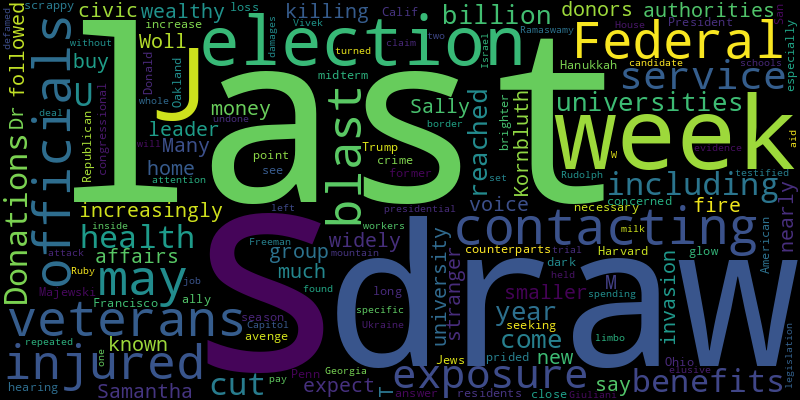
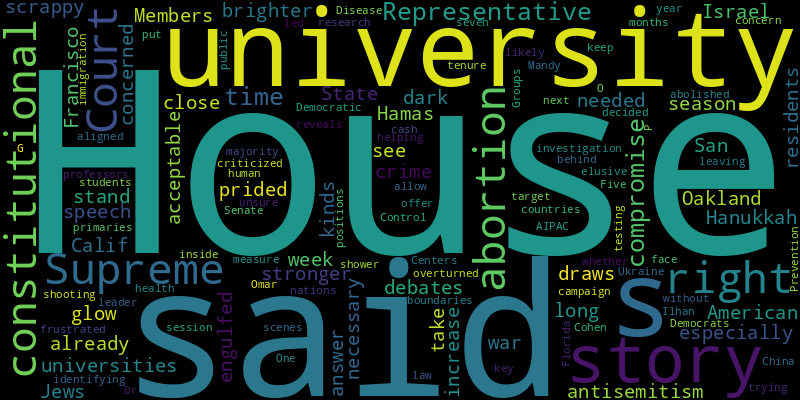
chore(bot): 😱 auto commit

diff --git a/README.md b/README.md
@@ -2,41 +2,41 @@
 Auto RSS New York Times and Generate Word Cloud
 
 ## New York Times Global News
-* President Biden’s meeting with the families lasted more than an hour. He had previously spoken with them by video call days after the Oct. 7 attack.
-* With Western support for Kyiv softening and Congress holding up urgently needed aid, Vladimir Putin’s bet on outlasting Ukraine and its allies is looking stronger.
-* The government avoided extra borrowing for 2024, but must make cuts in programs to address climate change.
-* Israel’s prime minister said he disagreed with President Biden about what should happen in Gaza after the war, and analysts say he might try to use the rift to shore up domestic support.
-* The concept, important for determining the legality of an act of war, is about weighing civilian harm against military objectives, not about achieving a balanced number of casualties.
-* Prime Minister Donald Tusk is sworn in and vows to try to invigorate flagging European support for Ukraine and push for “full mobilization” against Russia’s military assault.
-* Ukraine’s military said that it had shot down all the ballistic missiles targeting the capital, but that falling debris caused significant damage.
-* A Thai farmworker clung to hope during her nearly 50 days of captivity in Gaza by befriending a young Israeli girl and dreaming of reuniting with her boyfriend, who had also been abducted.
-* Even Gazans who can get access to Israeli directions online say they sometimes make no sense, which could be a matter of life or death.
-* President Volodymyr Zelensky of Ukraine traveled to Washington to make a last-ditch appeal for more help to fight Russia. But Republicans said they wouldn’t act without a border deal.
+* National Security Adviser Jake Sullivan, in Tel Aviv, sought to demonstrate that the U.S. and Israel are on the same page in the war against Hamas in Gaza.
+* In a country already bristling with armed soldiers and reservists, a new sense of insecurity is pushing civilians to seek more personal weapons.
+* The E.U.’s willingness to open accession talks will lift morale, but the more immediate issue of financial support from allies for the war is cloudy.
+* Ukrainian men are reporting incidents of wrongful draft notices, unprofessional medical commissions and coercive mobilization tactics.
+* Mozambique’s most influential contemporary choreographer uses bodies in motion to artfully — and clearly — trace the complex recent history of his country.
+* Far from the deserts of the Middle East, the Army is instructing troops in Hawaii on the skills needed for a potential clash with China.
+* Kathleen Folbigg, who spent years in prison, was pardoned in June, after an inquiry found that her children had most likely died of natural causes.
+* The trial, held under stringent security conditions and expected to last months, caps one of the gravest espionage scandals in recent German history.
+* Alex Batty, of Oldham, England, now a teenager, was found by a delivery driver walking on a rainy night in Chalabre. His mother and grandfather are wanted in connection with his disappearance.
+* The Russian leader, in his annual news conference, said he was open to peace talks but showed no hint of compromise. “Peace will come when we achieve our goals,” he said.
 
 ![Global](./global.png)
 ## New York Times United States News
-* Federal officials have been contacting veterans who may have been injured by blast exposure in the service, including some who were cut off from health benefits.
-* Donations to U.S. universities reached $59.5 billion last year, and they come increasingly from a smaller group of wealthy donors. Many of them expect their money to buy a voice in university affairs.
-* The authorities say the killing of Samantha Woll, widely known as a civic leader, followed a home invasion by a stranger.
-* Dr. Sally Kornbluth, who is new to M.I.T., did not draw nearly as much fire as her counterparts at Harvard and Penn after last week’s congressional hearing.
-* J.R. Majewski, an ally of former President Donald J. Trump, is seeking to avenge his 13-point loss in the 2022 midterm elections in Ohio.
-* Oakland, Calif., has long prided itself on being the scrappy answer to San Francisco, but residents are concerned by an increase in crime.
+* Members of the State House of Representatives said the university needed to take a stronger stand against antisemitism.
 * As Hanukkah draws to a close, American Jews see the week’s brighter glow as especially necessary during a dark season.
-* The Republican presidential candidate Vivek Ramaswamy repeated his claim, without specific evidence, that the attack on the Capitol was an “inside job.”
-* With aid to Ukraine and Israel in limbo, a border deal elusive and a mountain of spending legislation left undone, the House turned its attention to whole milk in schools.
-* Ruby Freeman, one of two Georgia election workers found to have been defamed by Rudolph W. Giuliani, testified at the trial held to set the damages he will have to pay.
+* Before the Israel-Hamas war, universities were already engulfed in debates over what kinds of speech are acceptable.
+* Oakland, Calif., has long prided itself on being the scrappy answer to San Francisco, but residents are concerned by an increase in crime.
+* A Times investigation reveals the behind-the-scenes story of how the Supreme Court abolished the constitutional right to abortion.
+* Groups aligned with AIPAC are likely to shower next year’s Democratic primaries with campaign cash. One key target: Representative Ilhan Omar.
+* A measure identifying seven “countries of concern”  has frustrated University of Florida professors, who are unsure whether they can offer research positions to students from China and other nations.
+* Five months into her tenure at the Centers for Disease Control and Prevention, Dr. Mandy K. Cohen is trying to put a human face on public health.
+* This is the inside story of how the Supreme Court overturned the constitutional right to abortion — shooting down compromise and testing the boundaries of how the law is decided.
+* The majority leader said he would keep the Senate in session to allow time for an elusive immigration compromise, as Democrats criticized the G.O.P.-led House for leaving without helping Ukraine.
 
 ![US](./usnews.png)
 ## New York Times Asia News
+* Far from the deserts of the Middle East, the Army is instructing troops in Hawaii on the skills needed for a potential clash with China.
+* Plus, why you might be an early riser.
+* The fallout over the case has strained diplomatic ties between Japan and the United States.
+* The Treasury Department pledged to carefully scrutinize foreign investments in the United States for national security threats.
 * Kathleen Folbigg, who spent years in prison, was pardoned in June, after an inquiry found that her children had most likely died of natural causes.
 * A Thai farmworker clung to hope during her nearly 50 days of captivity in Gaza by befriending a young Israeli girl and dreaming of reuniting with her boyfriend, who had also been abducted.
 * Thai hostage Nutthawaree Munkan was held by Hamas for nearly 50 days. During her time underground, a 5-year-old Israeli child gave her hope that she’d make it out alive.
 * A shrinking, aging population poses an obstacle as the nation tries to counter security threats from China and North Korea.
 * Plus, Volodymyr Zelensky pleaded for more aid in Washington.
 * Tensions have been rising between Pakistan and Afghanistan, and violence in the border area has increased since Pakistan directed all undocumented foreigners to leave the country.
-* A bipartisan report recommended stripping China of the low tariffs the United States granted it two decades ago, among other actions.
-* The last two members, Jimin and Jungkook, began their 18-month military duty in South Korea on Tuesday. Some fans say they should have been exempt.
-* The Chinese leader wants assurances that the strategically important country isn’t taking Washington’s side against Beijing, analysts say.
-* Volkswagen is shifting more operations to China, tapping the country’s electric vehicle capacity and building factories.
 
 ![Asian](./asian.png)
